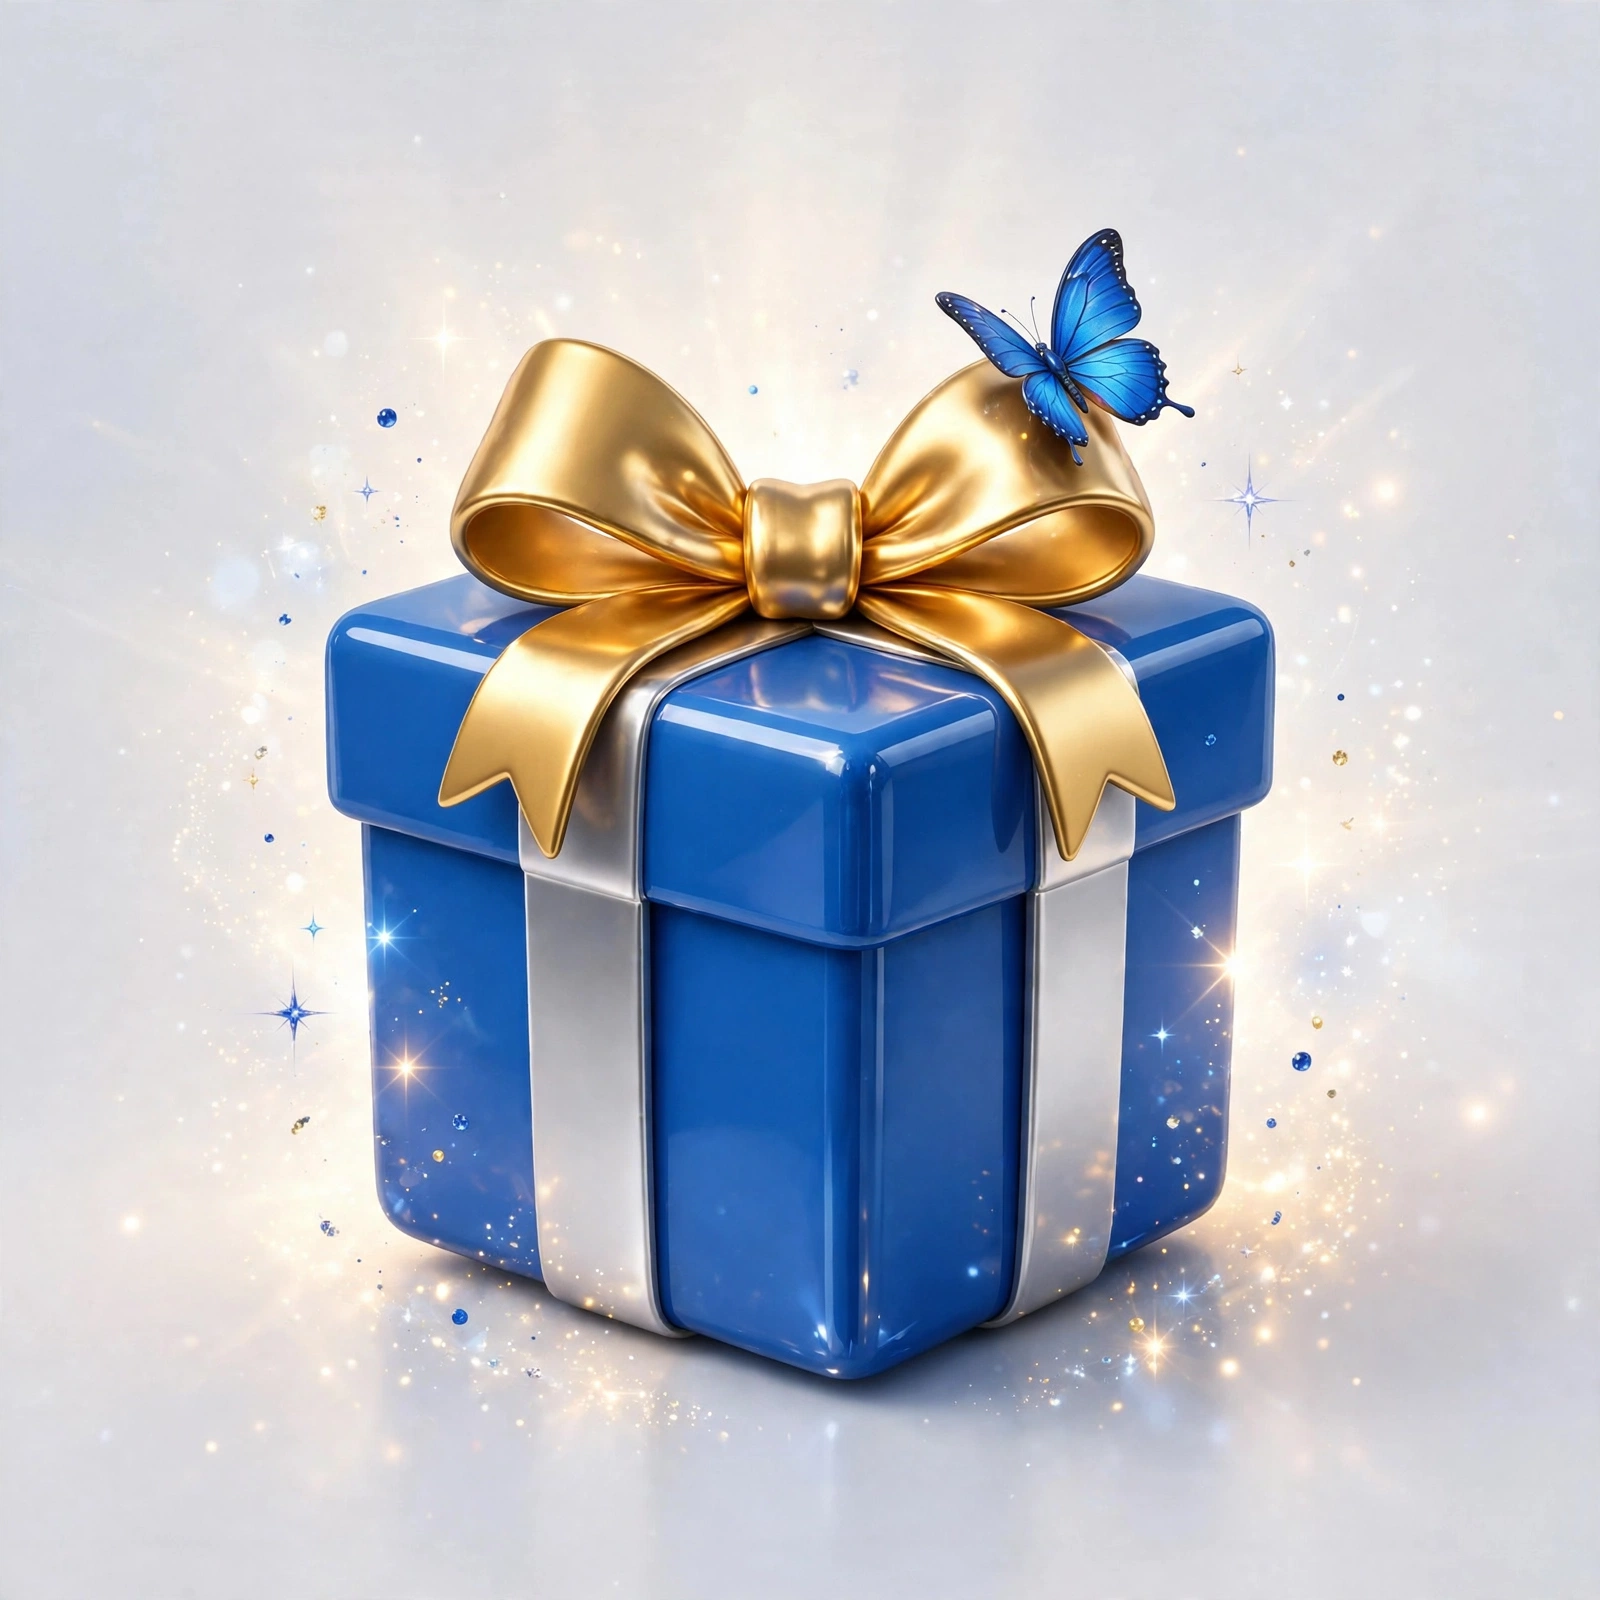
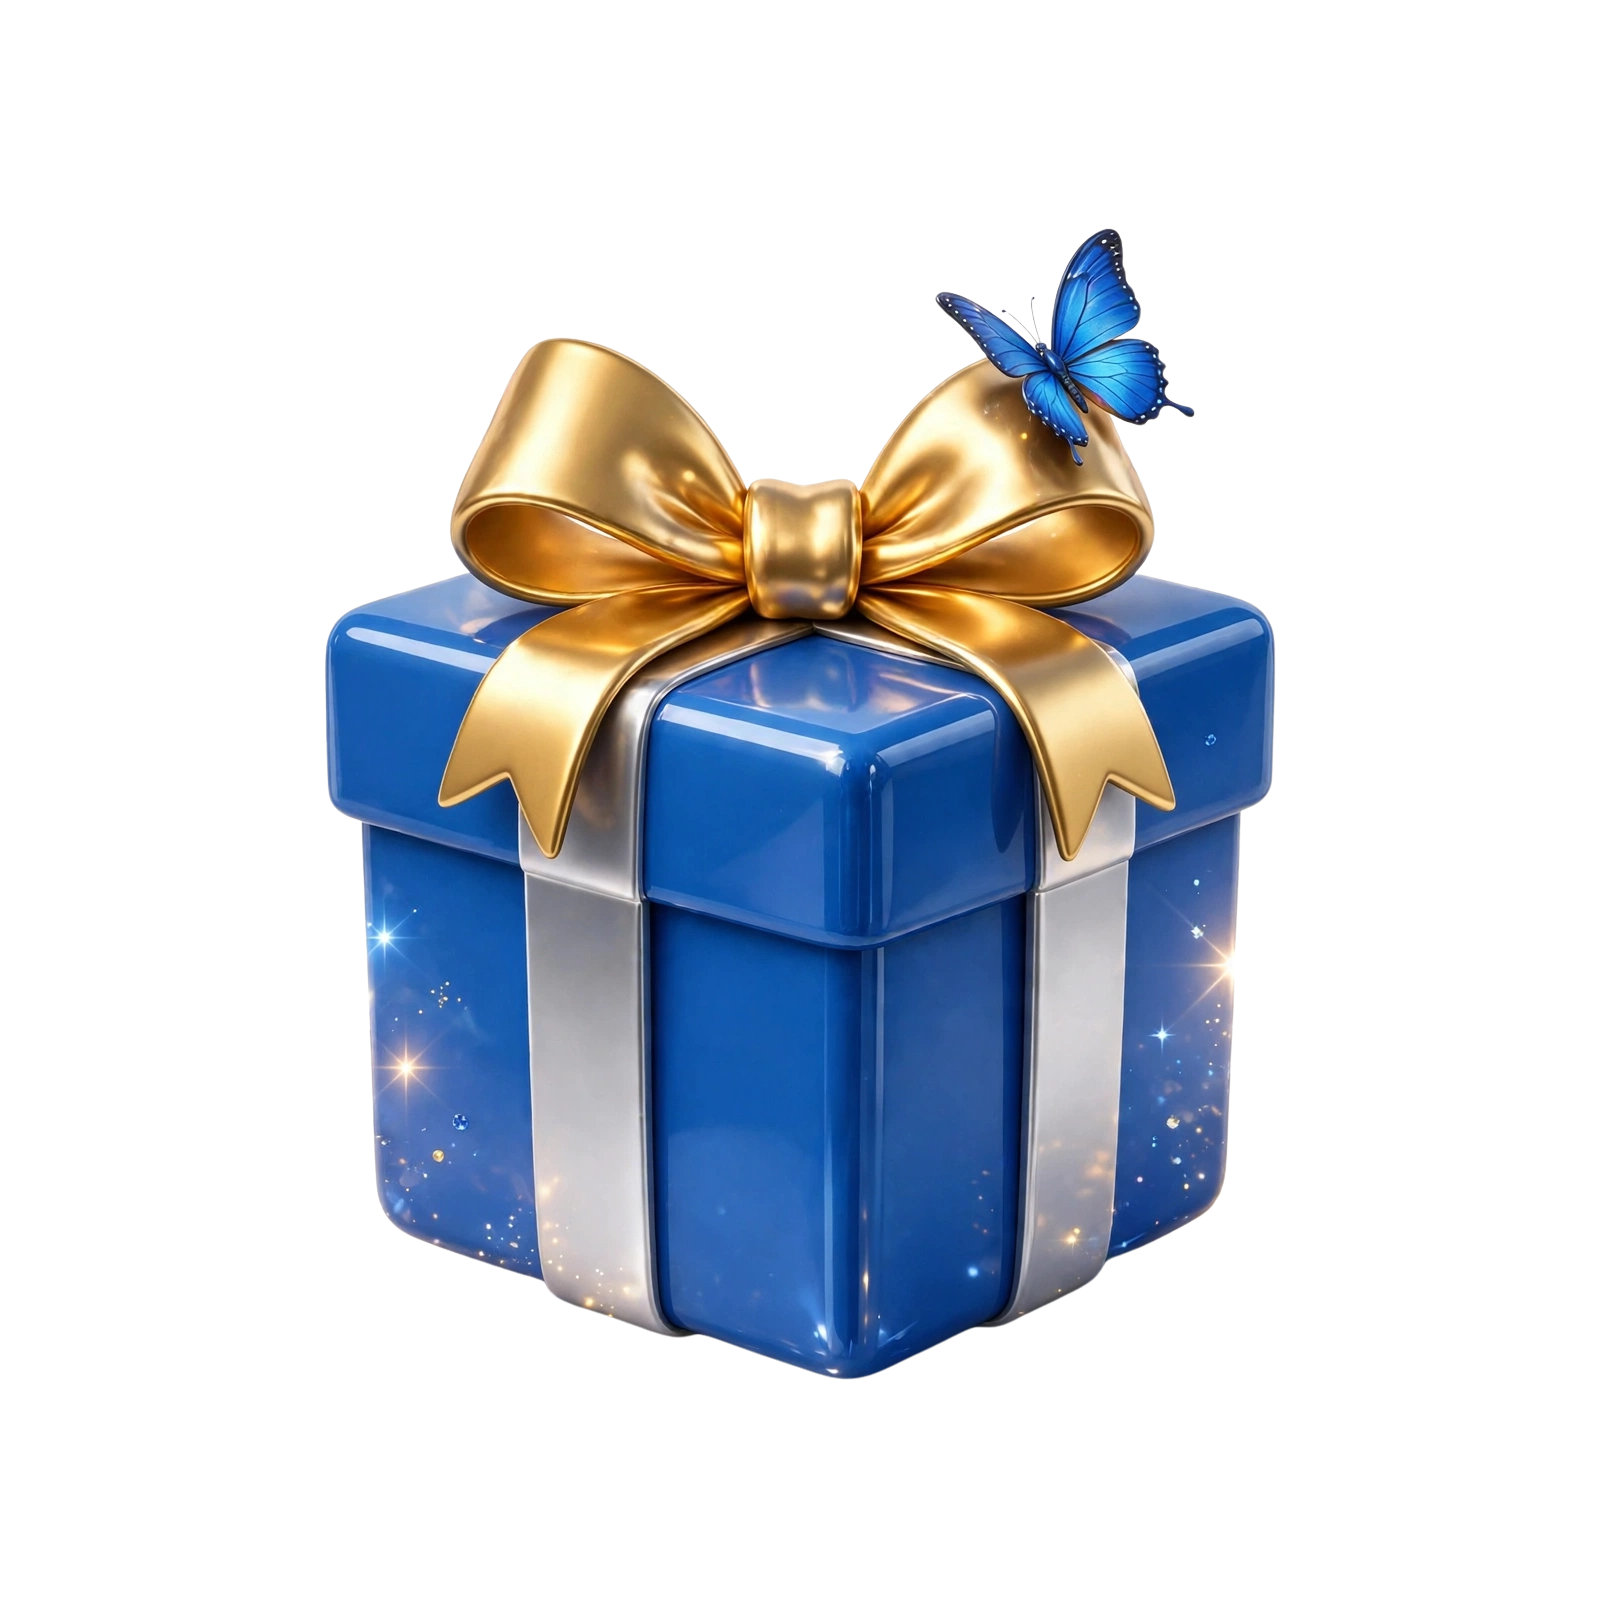
Transparent emoji backgrounds (Canva cutouts) + free spots 6 -> 3

diff --git a/index.html b/index.html
@@ -84,7 +84,7 @@
   <!-- SCREEN 1 · THE GIFT -->
   <section class="screen on" id="s1">
     <img class="hero-emj" src="glam-butterfly.png" alt="Glam butterfly" style="width:92px;">
-    <h1 style="text-align:center; font-size:35px; margin-top:6px;">You scored one of the<br><span style="color:#0b6fc2;">6 FREE spots!</span></h1>
+    <h1 style="text-align:center; font-size:35px; margin-top:6px;">You scored one of the<br><span style="color:#0b6fc2;">3 FREE spots!</span></h1>
     <p class="sub">Your gift is inside — and it's <b>not</b> a boring PDF. <img class="emj" src="glam-sparkles.png" alt=""></p>
     <img class="gift" id="giftBox" src="glam-gift.png" alt="Your gift — tap to unwrap" title="Tap to unwrap">
     <p class="sub">It's <b>The Promo Director</b> — the one prompt that turns ChatGPT or Claude into your personal promo director and builds your whole sale for you. <b>Take command of your whole sale.</b> This page builds it with <i>your</i> details already filled in.</p>
